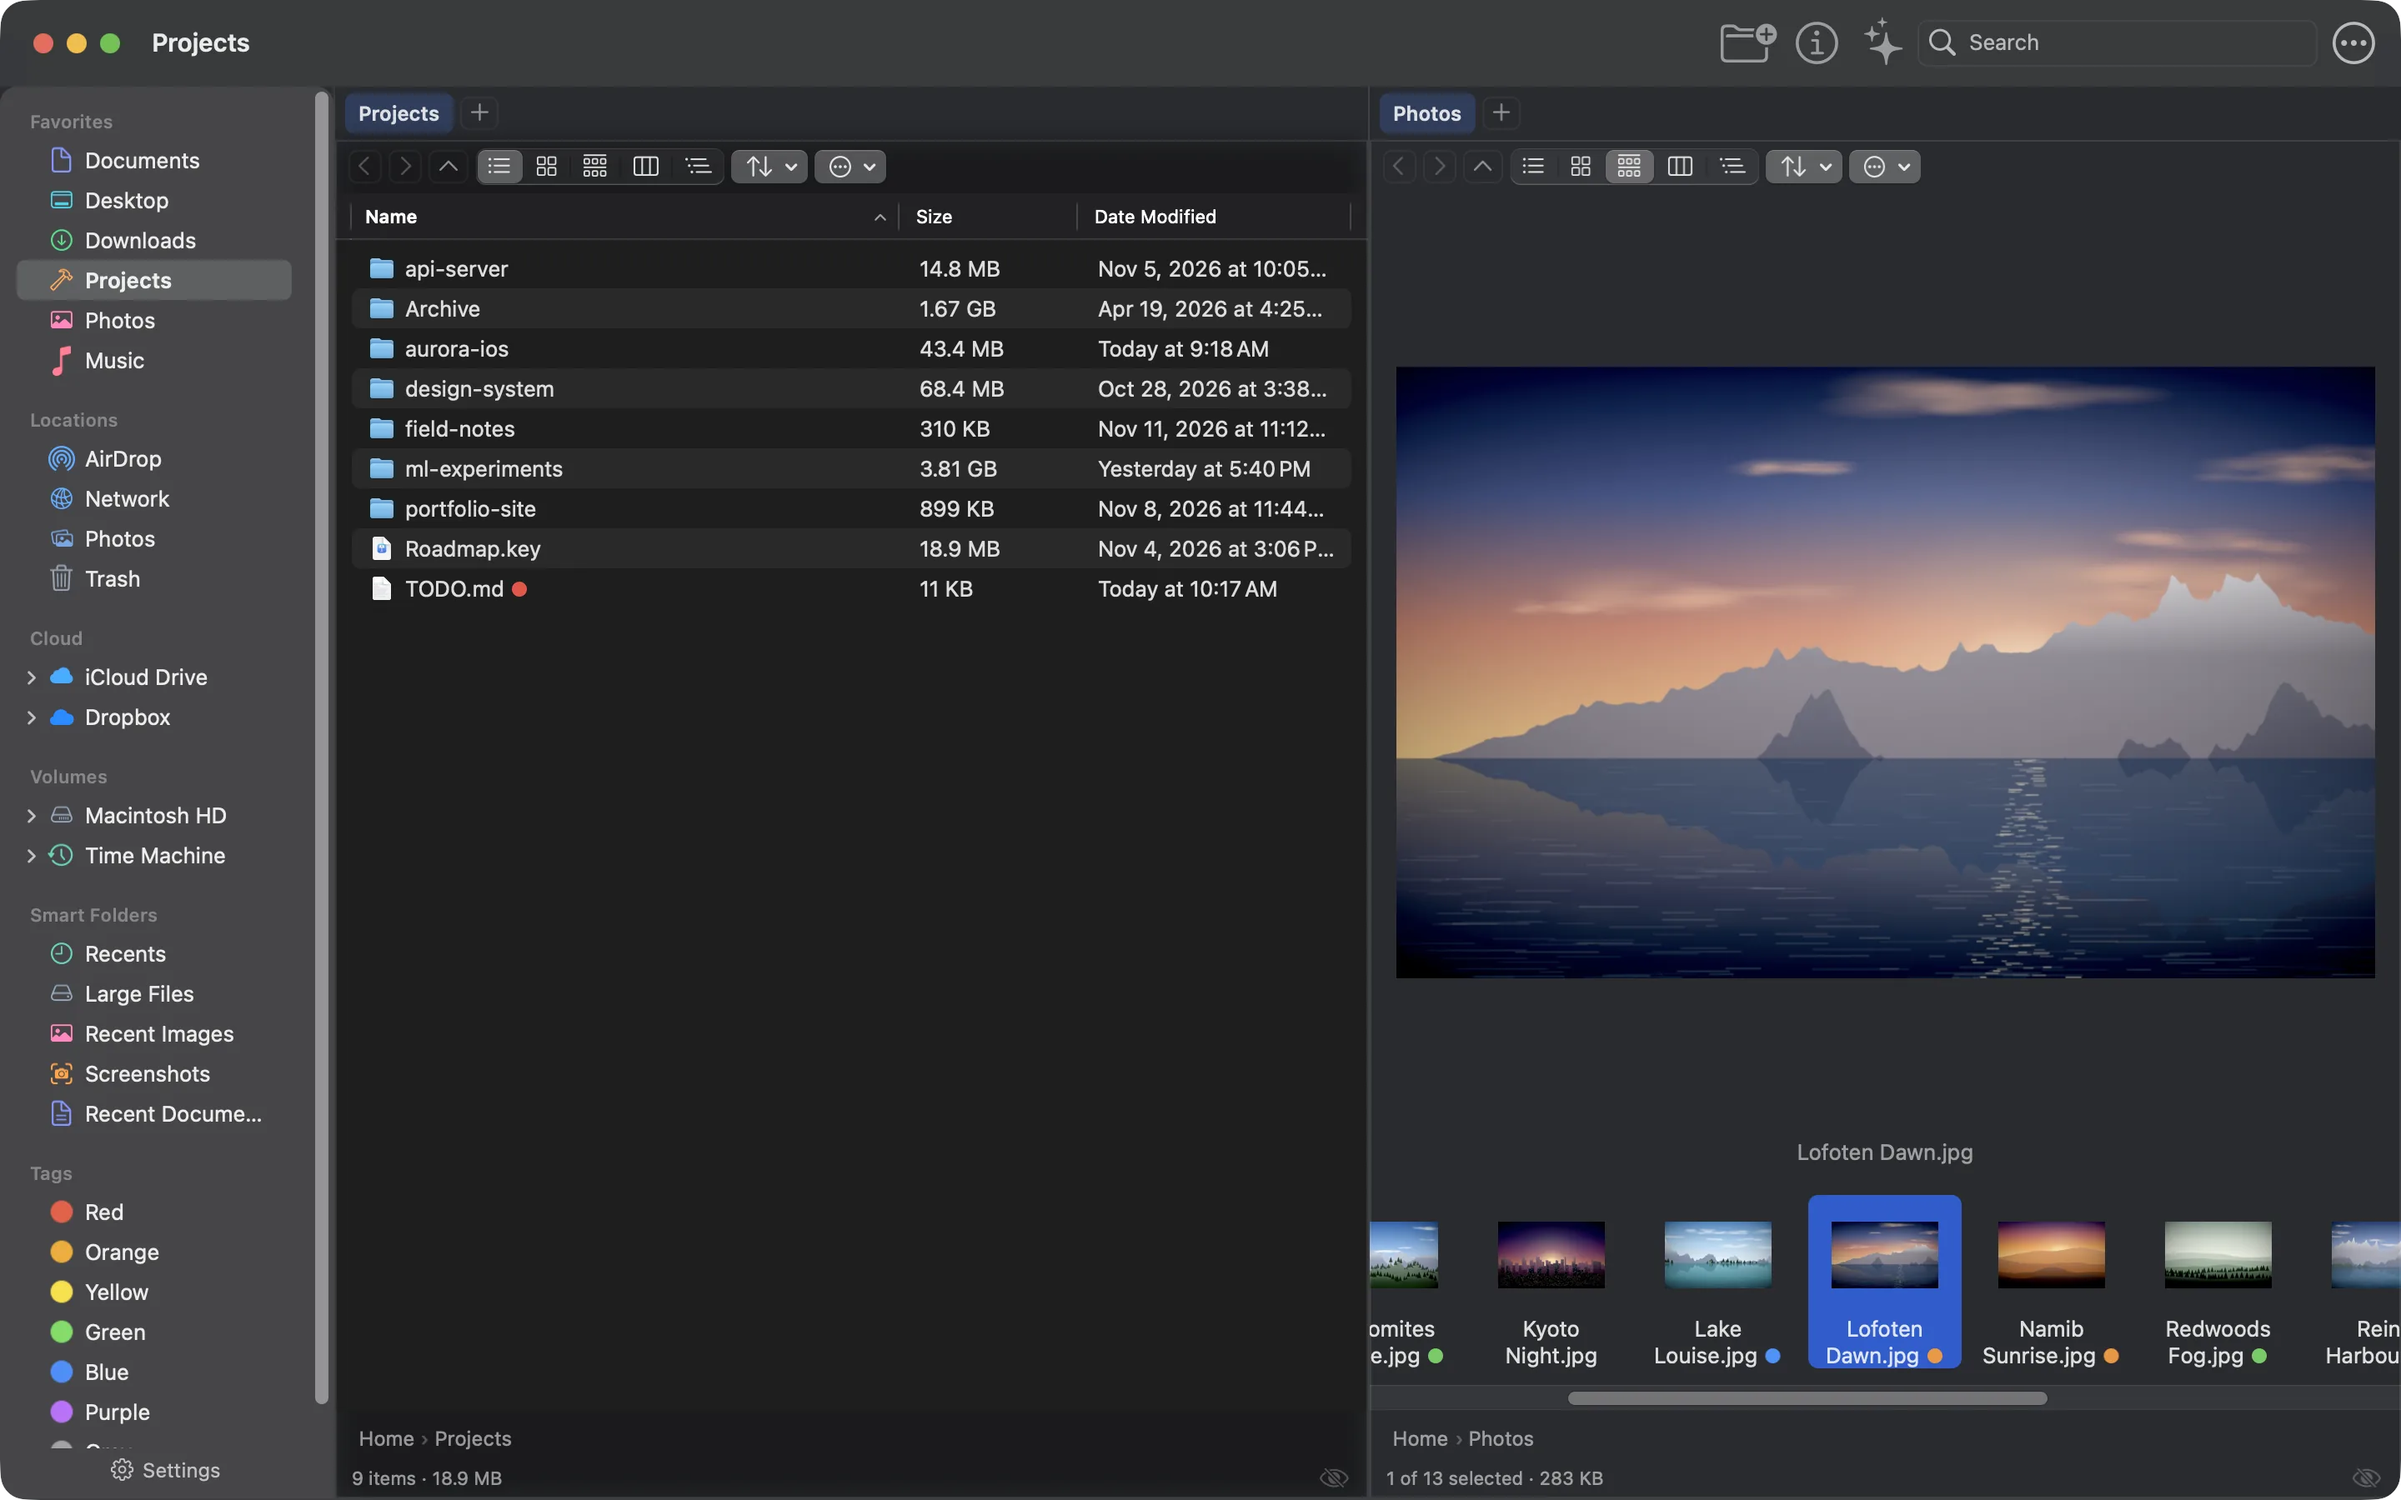
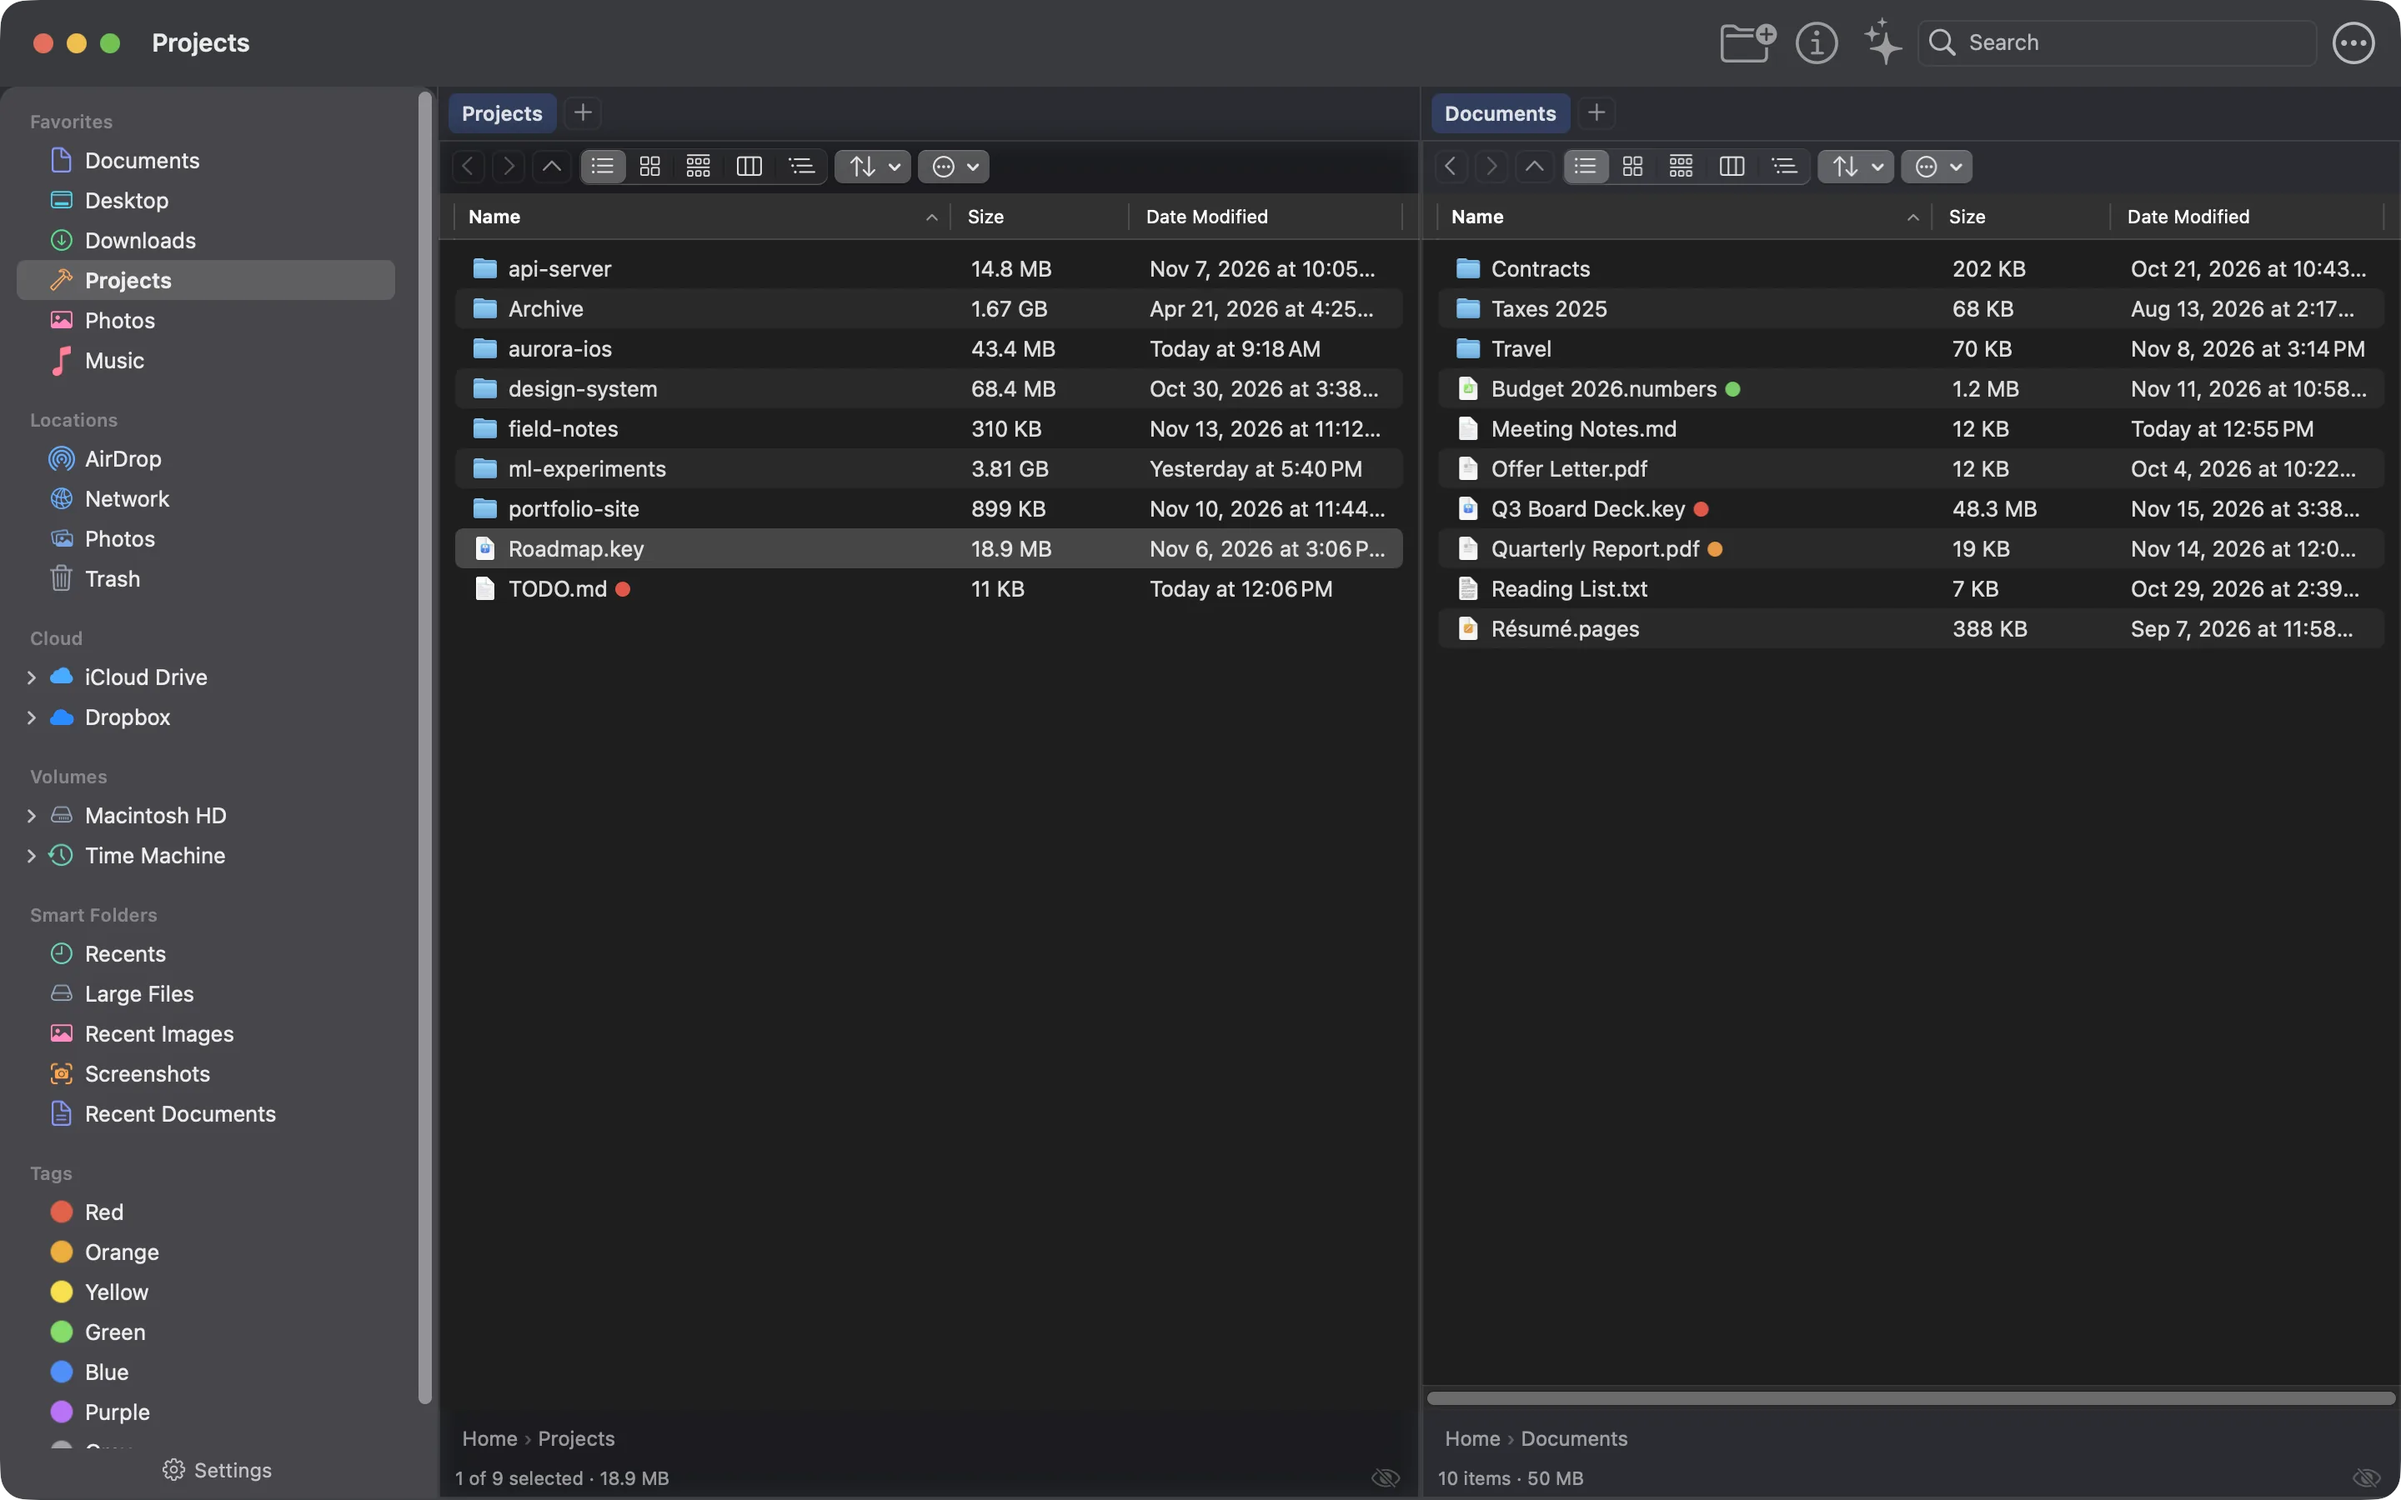
fix(site): reshoot the stale screenshots and the social card
Trigger: the website audit (2026-11-17) found hero.webp and view-list.webp
identical, an empty Progress column in the torrent shot, a Network view under a
tab titled Projects, and a social card with July-era UI that said free and open
source in the image.

Change: hero, list, torrent and remote recaptured at 2880x1800 from the real app
on the demo workspace (scripts/site-shots.sh, display switched to a scaled 2x
mode and restored), after fixing the bugs they exposed (3a83159). The list shot
is now two list views, distinct from the hero. The social card is rebuilt from
the new hero with 'open source, coming soon'. Alt text for list, torrent and
remote describes the new images; image URLs carry ?v=4 and the card ?v=2.

Effect: all four images reviewed by eye; site_docs_test and build --check pass;
the CSP hashes still match.

Phase: 53

diff --git a/site/index.html b/site/index.html
@@ -421,14 +421,14 @@
 <meta property="og:title" content="Pathem, a fast native macOS file manager">
 <meta property="og:description" content="Dual-pane, keyboard-driven, and built to stay quick even in folders with a million files. Free. Open-source release coming soon.">
 <meta property="og:url" content="https://pathem.app/">
-<meta property="og:image" content="https://pathem.app/assets/social-card.png">
+<meta property="og:image" content="https://pathem.app/assets/social-card.png?v=2">
 <meta property="og:image:width" content="1200">
 <meta property="og:image:height" content="630">
 <meta property="og:image:alt" content="Pathem: a fast, native macOS file manager">
 <meta name="twitter:card" content="summary_large_image">
 <meta name="twitter:title" content="Pathem, a fast native macOS file manager">
 <meta name="twitter:description" content="Dual-pane, keyboard-driven, and built to stay quick even in folders with a million files. Free. Open-source release coming soon.">
-<meta name="twitter:image" content="https://pathem.app/assets/social-card.png">
+<meta name="twitter:image" content="https://pathem.app/assets/social-card.png?v=2">
 <script type="application/ld+json">
 {
   "@context": "https://schema.org",
@@ -472,7 +472,7 @@
     </div>
 
     <figure class="window reveal">
-      <img src="/assets/hero.webp?v=3" alt="Pathem dual-pane window: a Projects folder as a list with folder sizes and dates on the left, a photo library in gallery view with a large preview and filmstrip on the right, and a customizable sidebar" width="1440" height="900" loading="eager" fetchpriority="high" />
+      <img src="/assets/hero.webp?v=4" alt="Pathem dual-pane window: a Projects folder as a list with folder sizes and dates on the left, a photo library in gallery view with a large preview and filmstrip on the right, and a customizable sidebar" width="1440" height="900" loading="eager" fetchpriority="high" />
     </figure>
   </section>
 
@@ -621,7 +621,7 @@
     <div class="feature-shots">
     <figure class="feature-shot reveal">
       <div class="window">
-      <img src="/assets/view-torrent.webp?v=3" width="1440" height="900" loading="lazy" alt="Pathem's built-in torrent client: a transfer drawer below the dual-pane browser lists five torrents (Ubuntu and Blender downloading, Debian and an Internet Archive set seeding, Fedora paused), under columns for progress, down and up speed, ETA, ratio, peers, and status. The progress column is empty in this capture." />
+      <img src="/assets/view-torrent.webp?v=4" width="1440" height="900" loading="lazy" alt="Pathem's built-in torrent client: a transfer drawer below the dual-pane browser lists five torrents (Ubuntu and Blender downloading, Debian and an Internet Archive set seeding, Fedora paused), with progress bars, down and up speed, ETA, ratio, peers, and status for each." />
       </div>
       <figcaption>
         <h3>BitTorrent, built in</h3>
@@ -630,7 +630,7 @@
     </figure>
     <figure class="feature-shot reveal">
       <div class="window">
-      <img src="/assets/view-remote.webp?v=3" width="1440" height="900" loading="lazy" alt="Pathem browsing the network: one pane lists discovered hosts (living-room-nas, media-server, Studio-Mac), the other shows a Documents folder, and the sidebar holds favorites, network locations, iCloud Drive, Dropbox, volumes, and smart folders." />
+      <img src="/assets/view-remote.webp?v=4" width="1440" height="900" loading="lazy" alt="Pathem browsing the network: one pane lists discovered hosts (living-room-nas, media-server, Studio-Mac), the other shows a Documents folder, and the sidebar lists saved connections (an S3 bucket, an SFTP server and a WebDAV share) alongside favorites, iCloud Drive, Dropbox, volumes, and smart folders." />
       </div>
       <figcaption>
         <h3>Remote and network browsing</h3>
@@ -690,7 +690,7 @@
       </div>
       <div class="frames">
         <div class="frame active" role="tabpanel" id="frame-list" aria-labelledby="tab-list">
-          <img src="/assets/view-list.webp?v=3" alt="Pathem list view: a Projects folder with sizes, dates and a colour tag, beside a photo library in gallery view" width="1440" height="900" loading="eager" />
+          <img src="/assets/view-list.webp?v=4" alt="Pathem list view: a Projects folder with folder sizes, dates and a colour tag, a file selected, beside a Documents folder in list view" width="1440" height="900" loading="eager" />
         </div>
         <div class="frame" role="tabpanel" id="frame-icons" aria-labelledby="tab-icons" aria-hidden="true">
           <img src="/assets/view-icons.webp?v=3" alt="Pathem icon view: a grid of photo thumbnails with colour tags, beside a Documents folder in list view" width="1440" height="900" loading="lazy" />
